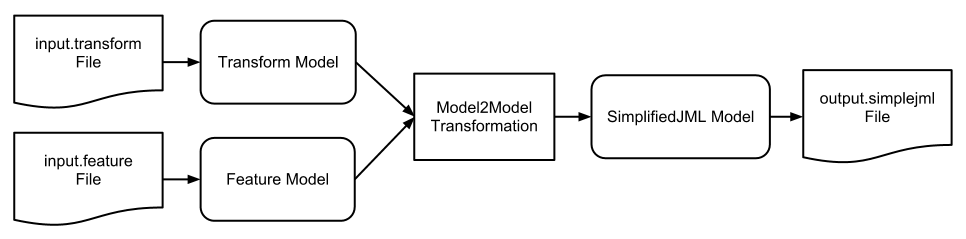
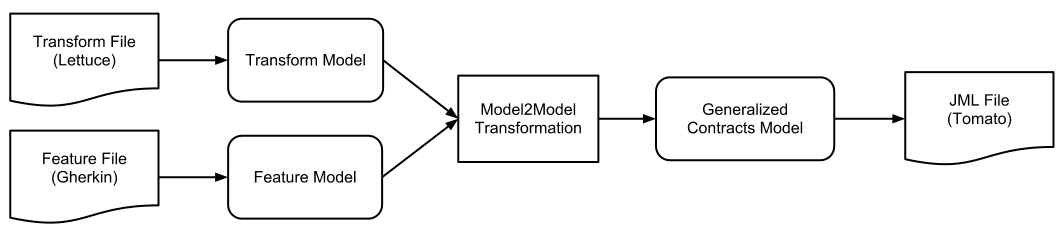
Enter sandmen! Added new image of framework, edited overview and background (added more BDD).

Changed region(s): [[0.0, 0.0299, 1.0, 0.9573]]

diff --git a/Overview.tex b/Overview.tex
@@ -1,26 +1,24 @@
-\section{Overview}
+\section{Solution}
 
 In order to pursue the goal of introducing contracts to BDD and easing the continued work on a given software development project, we introduce the Salad Framework. Salad contains three DSLs --- each with a specific purpose. Gherkin is the BDD feature specification language, Lettuce is the transformation language and lastly, Tomato is a simplified version of JML.  Combined, they make it possible for contracts to be extracted and generated from feature descriptions and transformed into JML. Figure \ref{fig:saladoverview} presents the workflow from input to output.
 
 \begin{figure}
 	\begin{center}
-		\includegraphics[scale=0.46]{images/framework_overview.png}
+		\includegraphics[scale=0.3]{images/framework_overview.png}
 	\end{center}
 	\caption{Salad Framework Overview}
 	\label{fig:saladoverview}
 \end{figure}
 
-The Feature Model represents an extension of Cucumber feature language which is the main artifact in BDD.
+The Feature Model represents an extension of the feature language.
 We want to allow people already familiar with BDD-features to work in an environment that they are accustomed to. 
-This is achieved by extending the original, well-known feature language, instead of creating a new language. 
-We want the extending parts of the feature language we introduce in this project to be done with as much respect to the original feature language's
-textual syntax as possible. The meta-model Having this rich model and language, that contains both the original features of the feature language as 
-well as our extension, also allow for further development on the project as all elements of the language are available in the model. 
+This is achieved by extending the original, well-known feature language. 
+We want the extending parts of the feature language we introduce in this project to be done with as much respect to the original feature language's textual syntax as possible. 
+Having this rich model and language, that contains both the original features of the feature language as well as our extension, 
+also allows for further development on the project as all elements of the language are available in the model. 
 One could do a transformation to a simplified model accepted by standard BDD tools, which will allow the further generation of regular test-cases.
 
-The Transform Model specifies how the contracts written in natural language in the feature file are transformed to actual contracts.
+Lettuce specifies how the contracts written in natural language in the feature file are transformed to actual contracts.
 By specifying rules on how contracts are interpreted, the user decides the nature of the language in which the natural language contracts are represented. 
 
-Through model-to-model transformation the feature model(s) and the transform model(s) are transformed into a meta-model representing a subset of JML,
-namely code contracts describing pre- and postconditions. The textual representation of our JML model resembles Java syntax with classes containing methods and
-their contracts written in JML.
+Through model-to-model transformation, the feature model(s) and the transform model(s) are transformed into a model representing contracts describing pre- and postconditions. The textual representation of our JML model resembles Java syntax with classes containing methods and their contracts written in JML.

diff --git a/Background.tex b/Background.tex
@@ -15,18 +15,40 @@ specification of a range of different example inputs.
 Moreover feature descriptions allow specification of a background clause,
 as a way to set the general context for the specific scenarios.
 
-Listing \ref{lst:bddfeature} shows a simple example of a feature that describes the scenario of addition. XXX continue example XXX.
+Listing \ref{lst:bddfeature} shows a simple example of a feature that describes the scenario of addition. 
+The title, `\emph{Adding}', is followed by the background and a scenario. The keywords in the scenario definition `\emph{Given}', `\emph{When}' and `\emph{Then}' respectively specifies the needed state, the action performed and the outcome of the scenario. 
+Several `\emph{Given}', `\emph{When}' and `\emph{Then}' blocks are concatenated with the keyword `\emph{And}'.
 
 \begin{lstlisting}[caption={Sample Addition Feature},label={lst:bddfeature}]
 Feature: Adding
-  Scenario: Add two numbers
-    Given the input "2+2"
-    When the calculator is run 
-    Then the output should be "4"
+ In order to avoid mistakes 
+ As a accountant
+ I want to be told the sum of two numbers
+
+   Scenario: Add two numbers
+     Given the input "2+2"
+     When the calculator is run 
+     Then the output should be "4"
 \end{lstlisting}
 
-If the reader is further interested in basic feature definitions,
-please refer to “The Cucumber Book” \cite{hellesoy2012}.
+Listing \ref{lst:cucumberoutput} shows the output of running Listing \ref{lst:bddfeature} through a BDD-framework like Cucumber. These has to 
+These are called `\emph{step definitions}' and form these automated tests can be generated. 
+Note: The standard output language in Cucumber is Ruby, however, as an open source tool, the number of supported languages are constantly growing. 
+
+\begin{lstlisting}[caption={Sample Cucumber Output},label={lst:cucumberoutput}]
+Given /^the input "([^"]*)"$/ do |arg1|
+   pending
+end
+When /^the calculator is run$/ do
+   pending
+end
+Then /^the output should be "([^"]*)"$/ do |arg1|
+   pending
+end
+\end{lstlisting}
+
+As mentioned in the introduction, instead of generating tests from features, we want to be able to generate contracts. 
+If the reader is further interested in basic feature definitions, please refer to “The Cucumber Book” \cite{hellesoy2012}.
 
 \subsection{A Generalized Model for Contracted Software}
 \label{sub:AGeneralizedModelforContractedSoftware}
